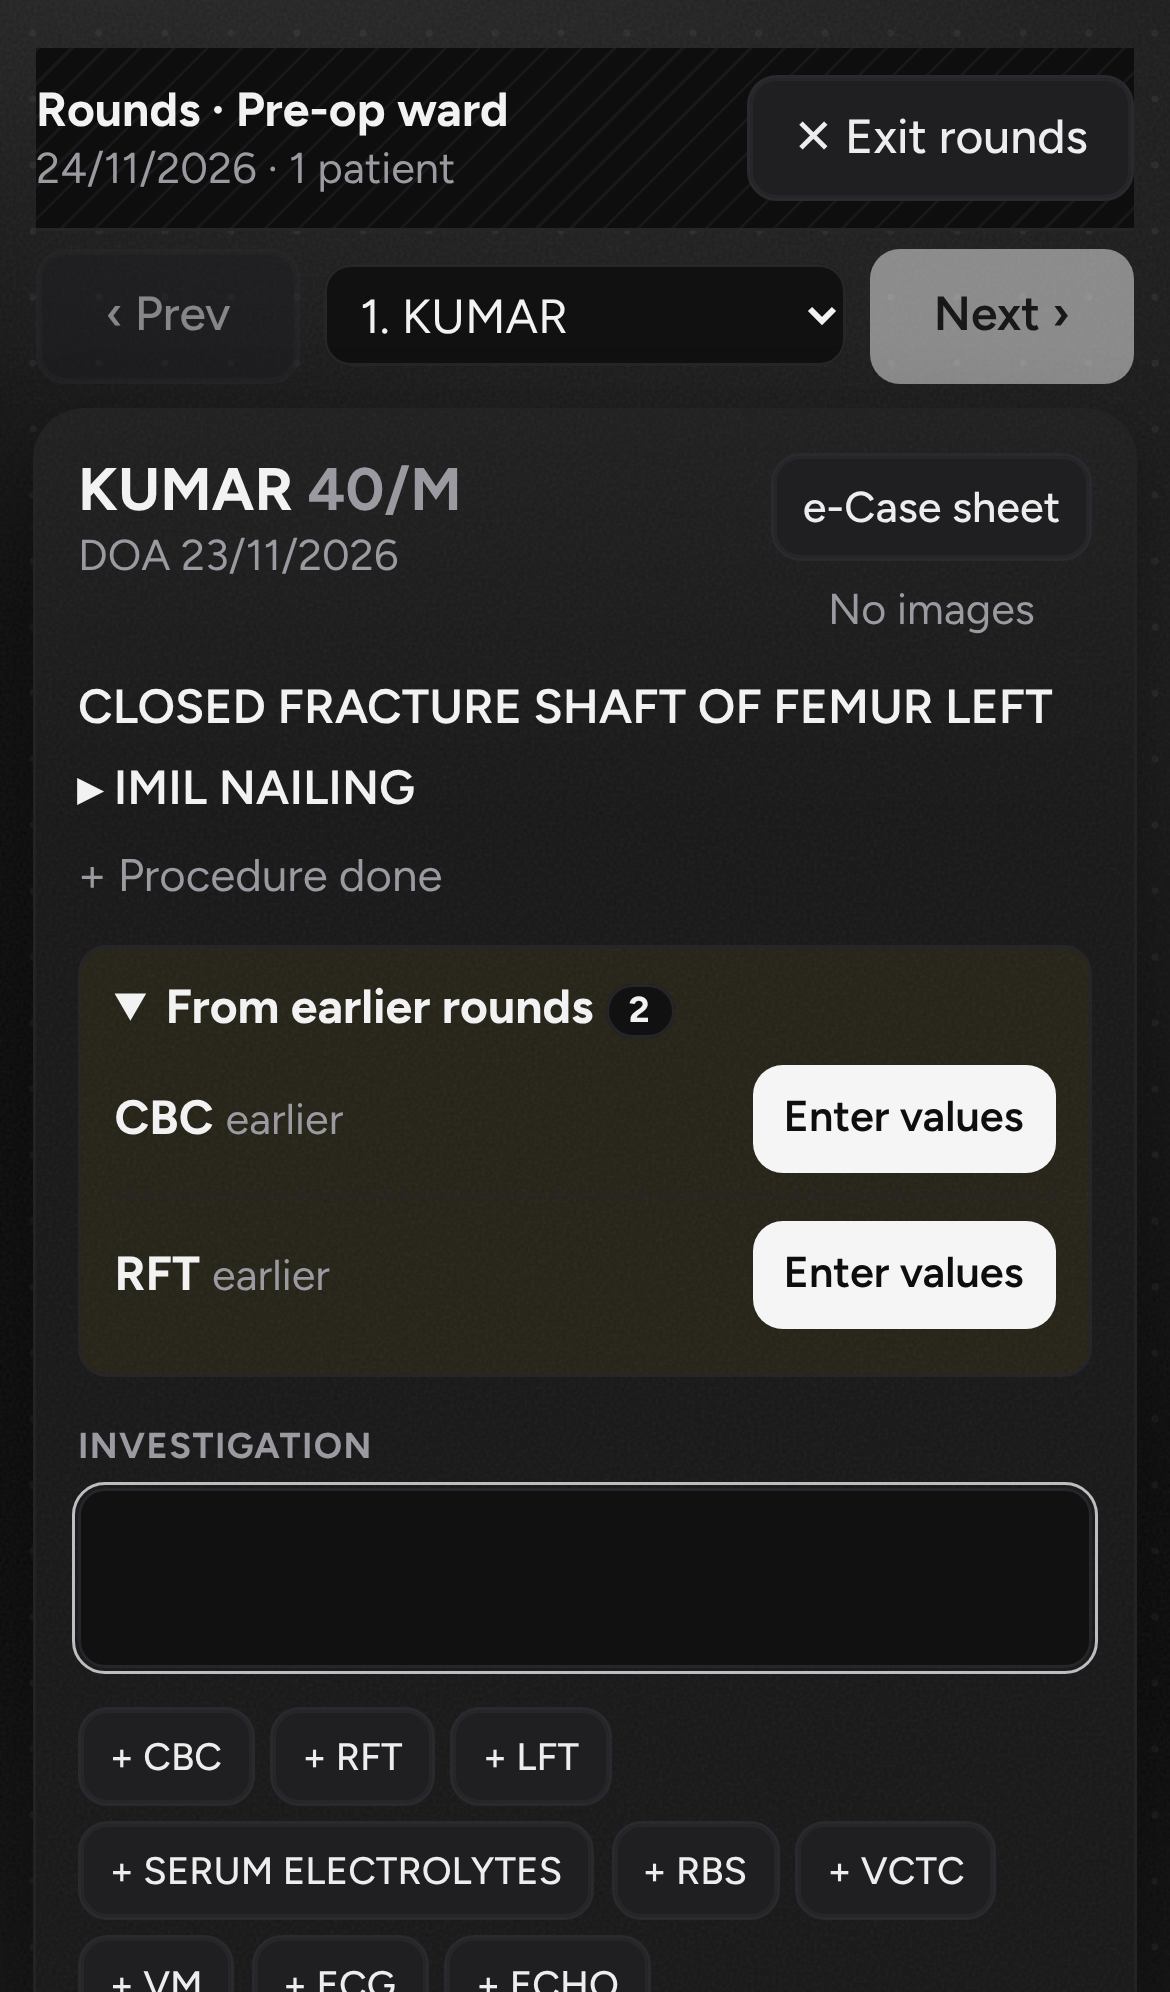
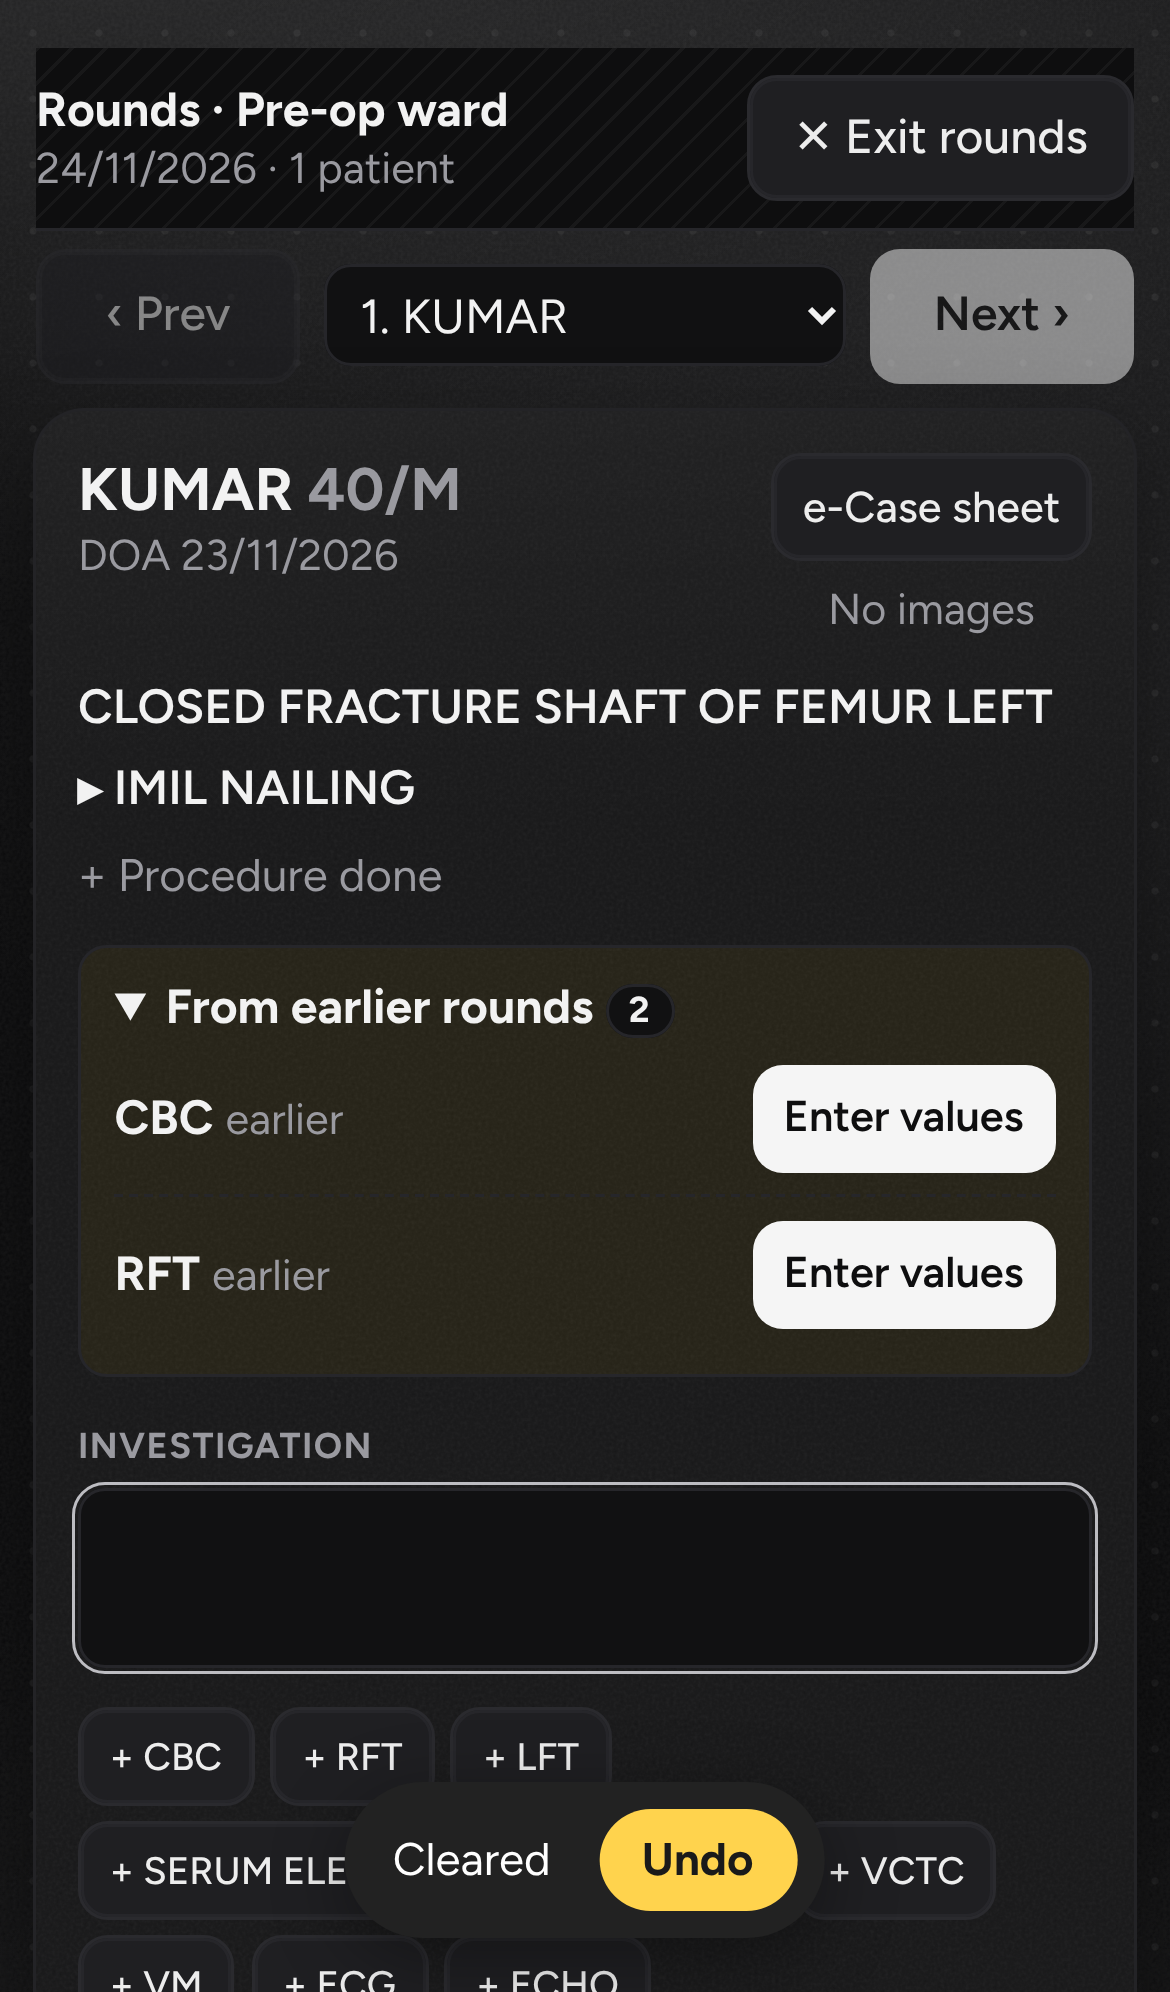
v194: Undo toast after clearing a text box
Claude-Session: https://claude.ai/code/session_01WoMd62r4TjKt42j5mBCFzX

Changed region(s): [[0.3077, 0.9026, 0.6769, 0.9649]]

diff --git a/index.html b/index.html
@@ -11,14 +11,14 @@
   <meta name="apple-mobile-web-app-status-bar-style" content="black-translucent">
   <meta name="format-detection" content="telephone=no">
   <link rel="manifest" href="manifest.webmanifest">
-  <link rel="apple-touch-icon" href="assets/icons/apple-touch-icon.png?v=193">
+  <link rel="apple-touch-icon" href="assets/icons/apple-touch-icon.png?v=194">
   <title>Callus · Ortho Unit I</title>
-  <link rel="icon" type="image/svg+xml" href="assets/icons/callus-tree.svg?v=193">
-  <link rel="icon" type="image/png" sizes="192x192" href="assets/icons/icon-192.png?v=193">
+  <link rel="icon" type="image/svg+xml" href="assets/icons/callus-tree.svg?v=194">
+  <link rel="icon" type="image/png" sizes="192x192" href="assets/icons/icon-192.png?v=194">
   <link rel="preconnect" href="https://fonts.googleapis.com">
   <link rel="preconnect" href="https://fonts.gstatic.com" crossorigin>
   <link rel="stylesheet" href="https://fonts.googleapis.com/css2?family=Pixelify+Sans:wght@400;500;700&family=VT323&family=Nunito:wght@400;500;600;700;800&family=Quicksand:wght@500;600;700&family=Fredoka:wght@400;500;600&family=Poppins:wght@400;500;600;700;800&family=Figtree:wght@400;500;600;700;800&family=JetBrains+Mono:wght@400;500&family=Noto+Sans+Tamil:wght@400;600;700&family=Noto+Serif+Tamil:wght@400;700&display=swap">
-  <link rel="stylesheet" href="css/app.css?v=193">
+  <link rel="stylesheet" href="css/app.css?v=194">
   <style id="page-style"></style>
   <script>try { var ui = localStorage.getItem('wm.ui') || 'graphite', h = document.documentElement; h.classList.remove('flat'); if (ui === 'win98') delete h.dataset.ui; else h.dataset.ui = ui; if (/^(modern|midnight|glass|material|crimson|aurora|blossom|mint|sorbet|tangerine|graphite)$/.test(ui)) h.classList.add('flat'); if (/^(crimson|aurora|blossom|mint|sorbet)$/.test(ui)) h.classList.add('grad'); } catch (e) {}</script>
 </head>
@@ -30,7 +30,7 @@
     </div>
     <div class="menubar">
       <span id="sync" class="sync"></span>
-      <span class="ver" title="App version">v193 · 24 Nov</span>
+      <span class="ver" title="App version">v194 · 24 Nov</span>
       <button type="button" id="reload" class="reload-btn" title="Load the latest version of the app">⟳ Reload</button>
     </div>
     <nav id="nav">
@@ -55,35 +55,35 @@
   <div id="modal" hidden></div>
   <div id="toast"></div>
 
-  <script src="config.js?v=193"></script>
-  <script src="js/util.js?v=193"></script>
-  <script src="js/ot-history.js?v=193"></script>
-  <script src="js/data.js?v=193"></script>
-  <script src="js/store.js?v=193"></script>
-  <script src="js/print.js?v=193"></script>
-  <script src="js/share.js?v=193"></script>
-  <script src="js/wa-import.js?v=193"></script>
-  <script src="js/ppt-import.js?v=193"></script>
-  <script src="js/dc-pages.js?v=193"></script>
-  <script src="js/vendor/pptxgen.bundle.js?v=193"></script>
-  <script src="js/vendor/jspdf.umd.min.js?v=193"></script>
-  <script src="js/vendor/jspdf.autotable.min.js?v=193"></script>
-  <script src="js/share-pdf.js?v=193"></script>
-  <script src="js/crop.js?v=193"></script>
-  <script src="js/dc-import.js?v=193"></script>
-  <script src="js/ot-import.js?v=193"></script>
-  <script src="js/demo.js?v=193"></script>
-  <script src="js/clear.js?v=193"></script>
-  <script src="js/consent.js?v=193"></script>
-  <script src="js/phone-pdf.js?v=193"></script>
-  <script src="js/opnote-more.js?v=193"></script>
-  <script src="js/opnote.js?v=193"></script>
-  <script src="js/deck-engine.js?v=193"></script>
-  <script src="js/report-ocr.js?v=193"></script>
-  <script src="js/bed-arrange.js?v=193"></script>
-  <script src="js/voice.js?v=193"></script>
-  <script src="js/app.js?v=193"></script>
-  <script src="js/update.js?v=193"></script>
+  <script src="config.js?v=194"></script>
+  <script src="js/util.js?v=194"></script>
+  <script src="js/ot-history.js?v=194"></script>
+  <script src="js/data.js?v=194"></script>
+  <script src="js/store.js?v=194"></script>
+  <script src="js/print.js?v=194"></script>
+  <script src="js/share.js?v=194"></script>
+  <script src="js/wa-import.js?v=194"></script>
+  <script src="js/ppt-import.js?v=194"></script>
+  <script src="js/dc-pages.js?v=194"></script>
+  <script src="js/vendor/pptxgen.bundle.js?v=194"></script>
+  <script src="js/vendor/jspdf.umd.min.js?v=194"></script>
+  <script src="js/vendor/jspdf.autotable.min.js?v=194"></script>
+  <script src="js/share-pdf.js?v=194"></script>
+  <script src="js/crop.js?v=194"></script>
+  <script src="js/dc-import.js?v=194"></script>
+  <script src="js/ot-import.js?v=194"></script>
+  <script src="js/demo.js?v=194"></script>
+  <script src="js/clear.js?v=194"></script>
+  <script src="js/consent.js?v=194"></script>
+  <script src="js/phone-pdf.js?v=194"></script>
+  <script src="js/opnote-more.js?v=194"></script>
+  <script src="js/opnote.js?v=194"></script>
+  <script src="js/deck-engine.js?v=194"></script>
+  <script src="js/report-ocr.js?v=194"></script>
+  <script src="js/bed-arrange.js?v=194"></script>
+  <script src="js/voice.js?v=194"></script>
+  <script src="js/app.js?v=194"></script>
+  <script src="js/update.js?v=194"></script>
   <script>
     // Offline support when served from a web address (not when opened as a file).
     if ('serviceWorker' in navigator && location.protocol.startsWith('http')) {

diff --git a/js/clear.js b/js/clear.js
@@ -1,4 +1,4 @@
-// A small × at the right edge of every text box (shown when it has something in it): one tap empties it.
+// A small × at the right edge of every text box (shown when it has something in it): one tap empties it, with an Undo toast for 6 s.
 // Works on whatever any page draws: boxes are marked after each redraw, and the tap is caught on the document.
 // Clearing fires the box's own input + change events, so each page saves the empty value the usual way.
 (() => {
@@ -37,15 +37,55 @@
     if (e.clientX < r.right - HIT || e.clientX > r.right) return false;
     return el.tagName === 'TEXTAREA' ? e.clientY - r.top <= HIT + 4 : true;
   };
+  const set = (el, v) => {
+    el.value = v;
+    el.dispatchEvent(new Event('input', { bubbles: true }));
+    el.dispatchEvent(new Event('change', { bubbles: true }));
+    filled(el);
+  };
+  // Which box this is, so Undo still finds it if the page was redrawn after the save.
+  const keyOf = (el) => {
+    const own = [...el.attributes].filter((a) => a.name === 'name' || a.name === 'id' || a.name.startsWith('data-')).map((a) => `${a.name}=${a.value}`).sort().join('&');
+    const ctx = [];
+    for (let n = el.parentElement; n; n = n.parentElement) {
+      for (const a of n.attributes || []) if (/^data-(case|nbcase|dcase|rv-key|i)$/.test(a.name) || a.name === 'id') ctx.push(`${a.name}=${a.value}`);
+    }
+    return `${el.tagName}|${own}|${ctx.join('&')}|${location.hash}`;
+  };
+
+  // "Cleared · Undo" for a few seconds after each clear.
+  let undoEl;
+  let undoT;
+  function offerUndo(el, old) {
+    const key = keyOf(el);
+    if (!undoEl) {
+      undoEl = document.createElement('div');
+      undoEl.id = 'undo-toast';
+      undoEl.setAttribute('role', 'status');
+      document.body.appendChild(undoEl);
+    }
+    undoEl.innerHTML = '<span>Cleared</span><button type="button">Undo</button>';
+    undoEl.classList.add('show');
+    clearTimeout(undoT);
+    undoT = setTimeout(() => undoEl.classList.remove('show'), 6000);
+    undoEl.querySelector('button').onclick = () => {
+      clearTimeout(undoT);
+      undoEl.classList.remove('show');
+      const box = el.isConnected ? el : [...document.querySelectorAll(el.tagName)].find((x) => keyOf(x) === key);
+      if (!box) return;
+      set(box, old);
+      box.focus();
+    };
+  }
+
   function clear(e) {
     const el = e.target;
     if (!el.classList?.contains('has-clr') || !el.classList.contains('filled') || !onX(el, e)) return;
     e.preventDefault();
-    el.value = '';
-    el.dispatchEvent(new Event('input', { bubbles: true }));
-    el.dispatchEvent(new Event('change', { bubbles: true }));
-    filled(el);
+    const old = el.value;
+    set(el, '');
     el.focus();
+    offerUndo(el, old);
   }
   document.addEventListener('click', clear, true);
 })();

diff --git a/css/app.css b/css/app.css
@@ -1833,3 +1833,9 @@ html[data-ui="graphite"] .posted-mark, html[data-ui="midnight"] .posted-mark, ht
   background-position: right 8px center !important;
 }
 textarea.has-clr.filled { background-position: right 8px top 8px !important; }
+
+#undo-toast { position: fixed; left: 50%; bottom: calc(18px + env(safe-area-inset-bottom)); transform: translate(-50%, 140%); z-index: 10000;
+  display: flex; align-items: center; gap: 1rem; padding: .55rem .6rem .55rem 1rem; border-radius: 999px; background: #222; color: #fff;
+  box-shadow: 0 6px 24px rgba(0,0,0,.35); font-size: .95rem; opacity: 0; transition: transform .2s ease, opacity .2s ease; pointer-events: none; }
+#undo-toast.show { transform: translate(-50%, 0); opacity: 1; pointer-events: auto; }
+#undo-toast button { border: 0; border-radius: 999px; padding: .35rem .9rem; background: #ffd34d; color: #1a1a1a; font: inherit; font-weight: 700; cursor: pointer; }

diff --git a/sw.js b/sw.js
@@ -1,7 +1,7 @@
 // Offline cache for the app shell. Bump VERSION with each release so phones
 // pick up the new files; data never goes through here (it lives in the
 // browser's storage or Firestore).
-const VERSION = 'v193';
+const VERSION = 'v194';
 const CACHE = 'preop-ward-' + VERSION;
 const SHELL = [
   './',

diff --git a/CLAUDE.md b/CLAUDE.md
@@ -71,3 +71,4 @@
 ## Clear (×) in text boxes
 - js/clear.js marks every text input / textarea (>= 90px wide, not readonly; opt out with data-no-clear) with .has-clr;
   the × is a CSS background in the right padding, shown when .filled; a tap there empties the box and fires input + change.
+  Then a "Cleared · Undo" toast (#undo-toast, 6 s) puts the text back — found again by keyOf if the page was redrawn.
